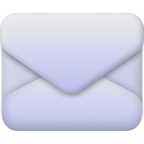
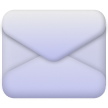
Ship content-type PNGs and nav new/unread chrome.
Map projects→project.png, mute SegmentedControl badges, and show accent + muted nav counts together.

Changed region(s): [[0.0, 0.1111, 1.0, 0.9167], [0.9167, 0.0833, 0.9444, 0.1111], [0.0833, 0.6389, 0.1111, 0.6667]]

diff --git a/src/lib/UiShell.svelte b/src/lib/UiShell.svelte
@@ -89,7 +89,7 @@
 		activeHref = '',
 		title = '',
 		counts = {},
-		/** Targeted-at-you unread (accent UnreadMark). Inventory stays in `counts`. */
+		/** Targeted-at-you unread (accent UnreadMark). `counts` = muted “new” totals. */
 		unreadCounts = {},
 		wideList = false,
 		/** Wider list column (Chat feed on desktop). */
@@ -833,29 +833,34 @@
 								</span>
 								<span class="nav-label">{item.label}</span>
 							</button>
-							{#if item.createKind || count != null || unread > 0}
+							{#if item.createKind || (count != null && count > 0) || unread > 0}
 								<span class="row-end">
 									{#if unread > 0}
 										<UnreadMark count={unread} />
-									{:else if count != null}
-										<span class="count">{count}</span>
 									{/if}
-									{#if item.createKind}
-										<button
-											type="button"
-											class="row-plus"
-											aria-label={`New ${item.createKind}`}
-											onclick={() => onNavPlus(item.createKind)}
-										>
-											<svg width="12" height="12" viewBox="0 0 12 12" fill="none" aria-hidden="true">
-												<path
-													d="M6 1.5v9M1.5 6h9"
-													stroke="currentColor"
-													stroke-width="1.6"
-													stroke-linecap="round"
-												/>
-											</svg>
-										</button>
+									{#if (count != null && count > 0) || item.createKind}
+										<span class="row-end-stack">
+											{#if count != null && count > 0}
+												<span class="count">{count}</span>
+											{/if}
+											{#if item.createKind}
+												<button
+													type="button"
+													class="row-plus"
+													aria-label={`New ${item.createKind}`}
+													onclick={() => onNavPlus(item.createKind)}
+												>
+													<svg width="12" height="12" viewBox="0 0 12 12" fill="none" aria-hidden="true">
+														<path
+															d="M6 1.5v9M1.5 6h9"
+															stroke="currentColor"
+															stroke-width="1.6"
+															stroke-linecap="round"
+														/>
+													</svg>
+												</button>
+											{/if}
+										</span>
 									{/if}
 								</span>
 							{/if}
@@ -1501,7 +1506,7 @@
 
 	.nav-row.creatable .nav-item,
 	.nav-row:has(.row-end) .nav-item {
-		padding-right: 36px;
+		padding-right: 56px;
 	}
 
 	.icon-wrap {
@@ -1526,12 +1531,23 @@
 		position: absolute;
 		right: 6px;
 		top: 50%;
-		width: 24px;
+		min-width: 24px;
 		height: 24px;
 		transform: translateY(-50%);
+		display: flex;
+		align-items: center;
+		justify-content: flex-end;
+		gap: 6px;
+		pointer-events: none;
+	}
+
+	.row-end-stack {
+		position: relative;
+		width: 24px;
+		height: 24px;
 		display: grid;
 		place-items: center;
-		pointer-events: none;
+		flex-shrink: 0;
 	}
 
 	.count,

diff --git a/src/lib/SegmentedControl.svelte b/src/lib/SegmentedControl.svelte
@@ -5,8 +5,6 @@
 	 *
 	 * @typedef {{ value: string, label: string, badge?: number }} SegOption
 	 */
-	import UnreadMark from './UnreadMark.svelte';
-
 	let {
 		options = /** @type {SegOption[]} */ ([]),
 		value = '',
@@ -26,7 +24,7 @@
 		>
 			<span class="seg-label">{opt.label}</span>
 			{#if (opt.badge ?? 0) > 0}
-				<UnreadMark count={opt.badge} size={6} />
+				<span class="seg-badge">{opt.badge > 9 ? '9+' : opt.badge}</span>
 			{/if}
 		</button>
 	{/each}
@@ -88,6 +86,22 @@
 		min-width: 0;
 		overflow: hidden;
 		text-overflow: ellipsis;
+	}
+
+	.seg-badge {
+		flex-shrink: 0;
+		font-family: 'Inter', var(--font), system-ui, sans-serif;
+		font-size: 11px;
+		font-weight: 600;
+		font-variant-numeric: lining-nums;
+		font-feature-settings: 'lnum' 1, 'tnum' 0, 'onum' 0;
+		color: var(--fg-33, color-mix(in srgb, var(--fg, var(--ink)) 33%, transparent));
+		letter-spacing: 0;
+		line-height: 1;
+	}
+
+	.seg-btn.on .seg-badge {
+		color: var(--fg-66, color-mix(in srgb, var(--fg, var(--ink)) 66%, transparent));
 	}
 
 	.seg-btn:hover {

diff --git a/src/lib/nav-png.js b/src/lib/nav-png.js
@@ -25,6 +25,8 @@ const ALIAS = {
 	files: 'folder',
 	drive: 'folder',
 	note: 'notes',
+	/* Nav / content-type keys use plural; asset is project.png */
+	projects: 'project',
 	inbox: 'mail',
 	message: 'mail',
 	messages: 'chat'
